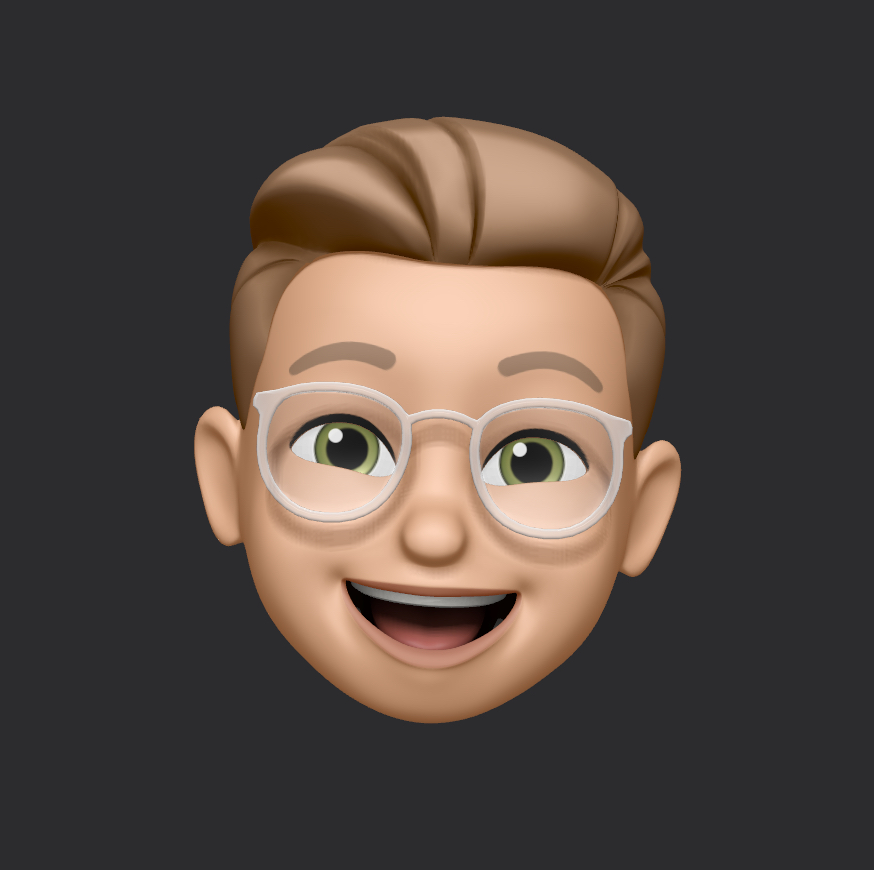
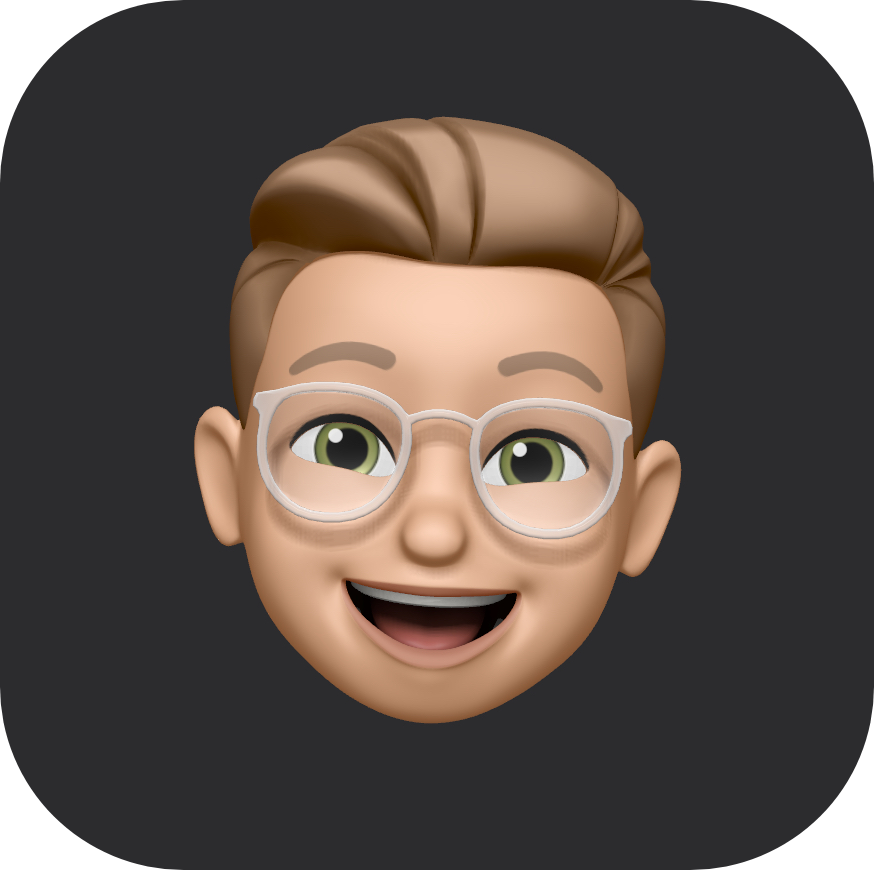
Rounded corners of profile image

diff --git a/index.html b/index.html
@@ -42,7 +42,7 @@
       <div class="sidebar-info">
 
         <figure class="avatar-box">
-          <img src="./assets/images/memoji.PNG" alt="Matthew McLain" width="80">
+          <img src="./assets/images/memoji.png" alt="Matthew McLain" width="80">
         </figure>
 
         <div class="info-content">
